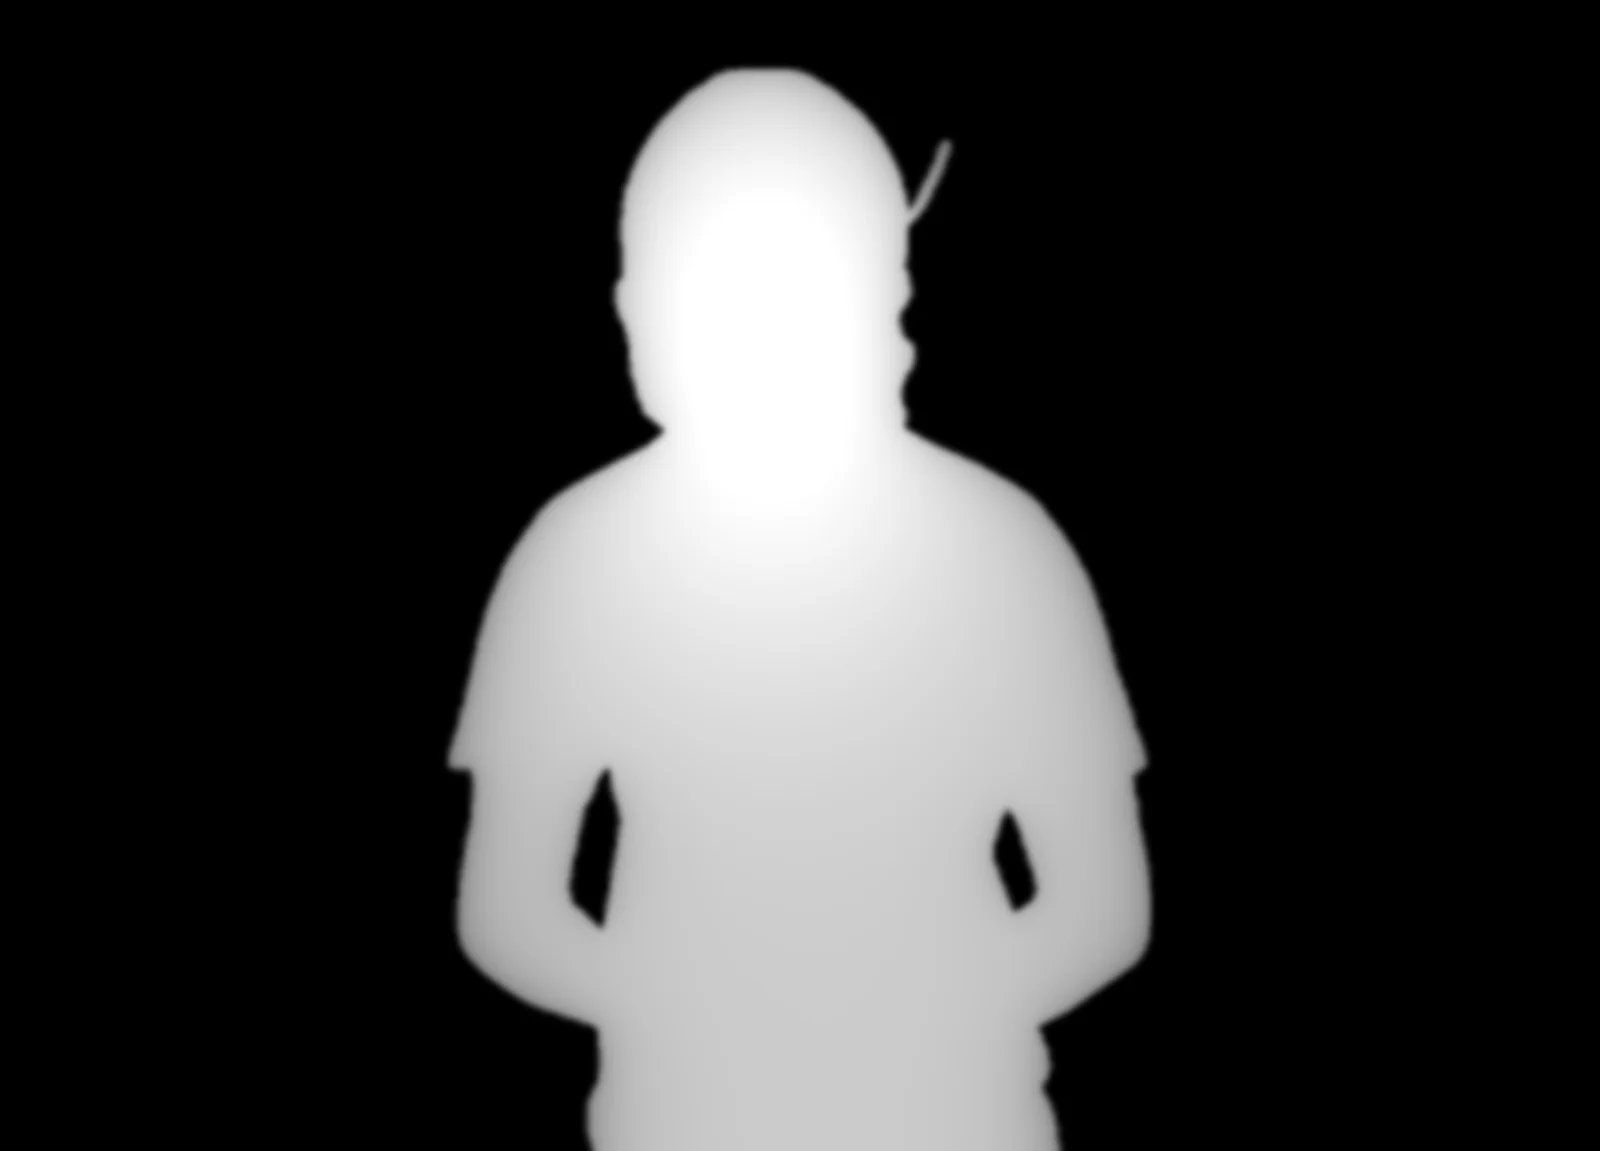
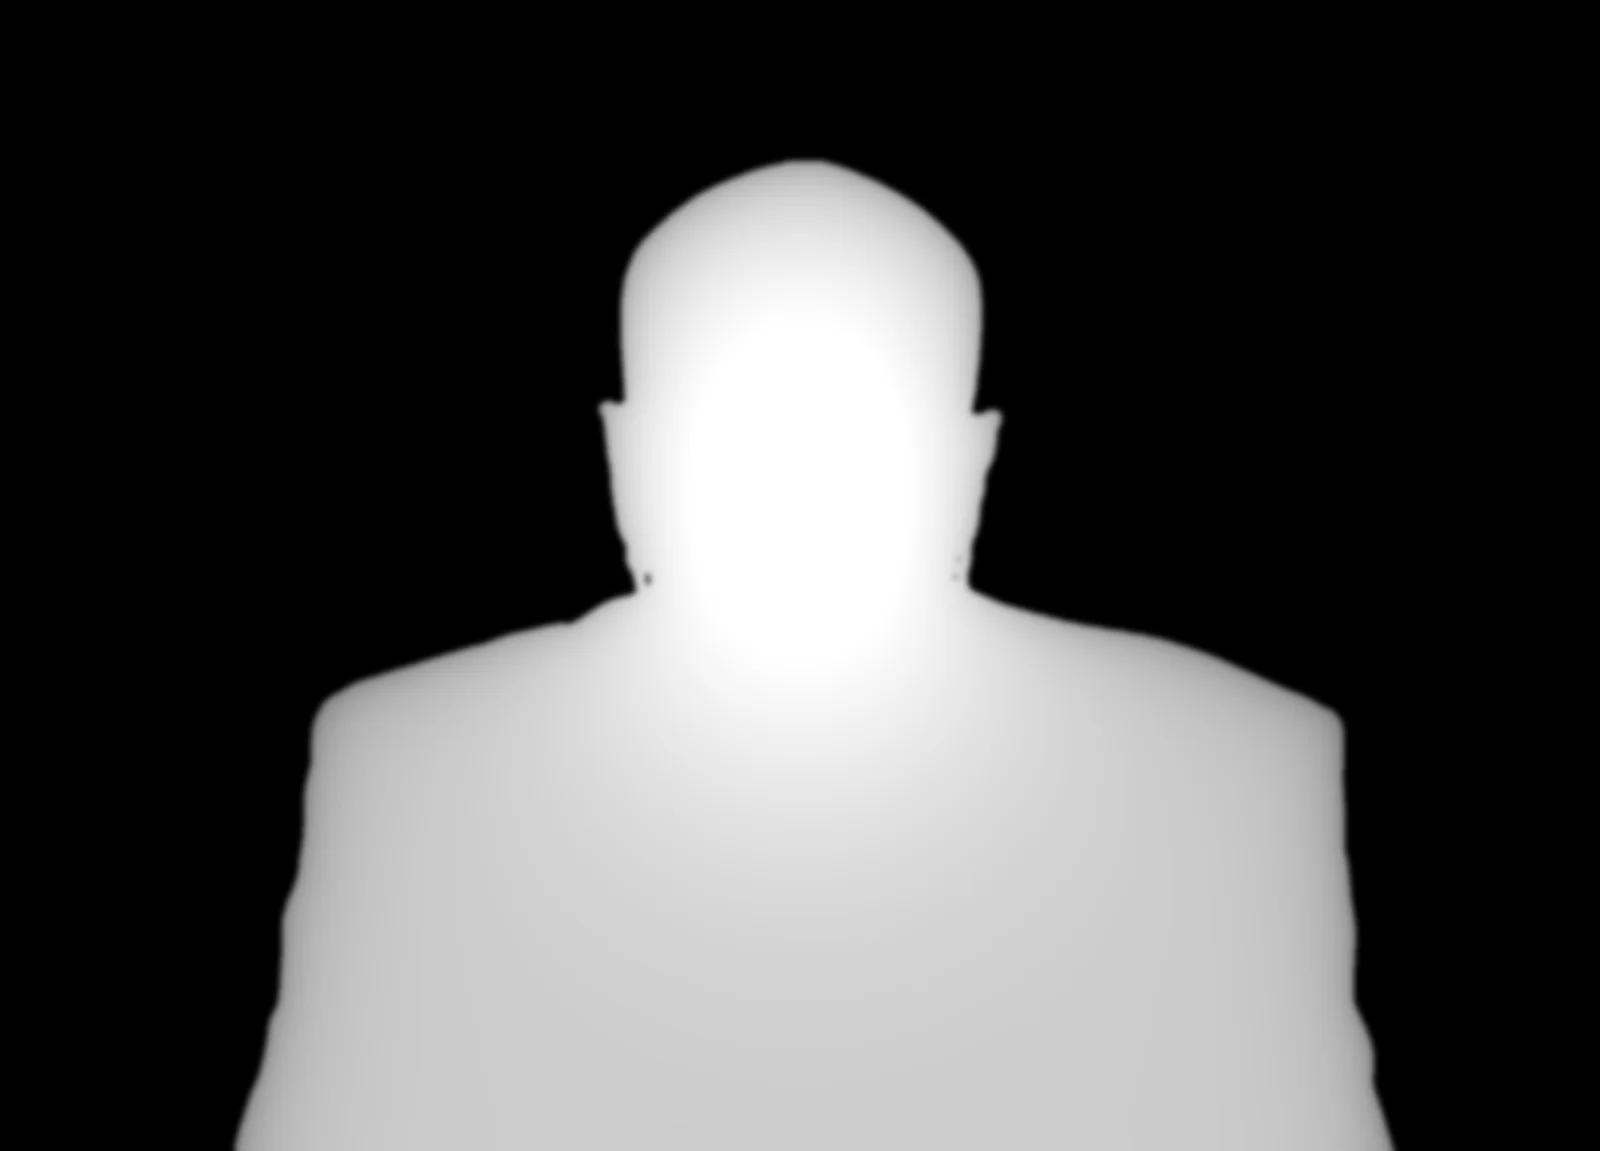
Home: real hero portrait and the two missing partner slides
- Hero portrait from Pexels 9573696 (front-facing, round sunglasses with
  chains) via gen-hero.py, which now supports BiRefNet cut-outs, centring on
  the face axis and a fill share; lens centre updated.
- Partnerships now has six slides like the reference (VOLTA eyewear profile,
  Halo Audio headphones; Pexels 34198837 with the chest patch painted out,
  3394666 with the backdrop inside the band removed). Page height matches the
  reference exactly at 1440x900 (17158px).
- Gold cleat gets a metallic grade; FORGE boxes scaled down.

Changed region(s): [[0.125, 0.0304, 0.875, 1.0], [0.4688, 0.5169, 0.5938, 0.6386], [0.5938, 0.6994, 0.6562, 0.821]]

diff --git a/apps/web/src/content/home.ts b/apps/web/src/content/home.ts
@@ -23,7 +23,7 @@ export const hero = {
     width: 1600,
     height: 1151,
     /** Lens centre in image UV (x, y from the top): the reflected video is centred here. */
-    lensCenter: [0.4778, 0.2876] as [number, number],
+    lensCenter: [0.4999, 0.4165] as [number, number],
   },
   /** Footage reflected in the lenses (and shown full-screen at the start of the intro). */
   video: { desktop: m('hero.mp4'), phone: m('hero-phone.mp4'), poster: m('hero-poster.webp') },
@@ -80,16 +80,28 @@ export const partnerships: { heading: string; cta: { label: string; href: string
       },
     },
     {
-      name: 'FORGE',
-      description:
-        'Fuel partner. A signature FORGE bar with Nico on the box, a training-table recipe series and a run of limited “18” packs every season opener.',
-      art: { kind: 'cutout', src: m('home/partner-forge.webp'), alt: 'Three FORGE protein-bar boxes featuring Nico Valtier', scale: 0.86, y: 'calc(-5 * var(--ht-u))' },
-    },
-    {
       name: 'Meridian Bank',
       description:
         'Hometown partner since 2021. Financial-literacy clinics across Northmark and the Meridian 18 scholarship for first-generation students.',
       art: { kind: 'cutout', src: m('influence-player.webp'), alt: 'Nico Valtier breaking away with the ball' },
+    },
+    {
+      name: 'FORGE',
+      description:
+        'Fuel partner. A signature FORGE bar with Nico on the box, a training-table recipe series and a run of limited “18” packs every season opener.',
+      art: { kind: 'cutout', src: m('home/partner-forge.webp'), alt: 'Three FORGE protein-bar boxes featuring Nico Valtier', scale: 0.66, y: 'calc(-12 * var(--ht-u))' },
+    },
+    {
+      name: 'VOLTA',
+      description:
+        'Eyewear partner. Lifestyle and performance frames, a co-designed Valtier 18 edition and sideline shades built for late-afternoon kickoffs.',
+      art: { kind: 'cutout', src: m('home/partner-volta.webp'), alt: 'Nico Valtier in VOLTA sunglasses, looking up' },
+    },
+    {
+      name: 'Halo Audio',
+      description:
+        'Game-day arrivals with Halo on. Nico’s pre-game playlists, studio sessions and a signature colourway in the Halo Studio line.',
+      art: { kind: 'cutout', src: m('home/partner-halo.webp'), alt: 'Halo Studio headphones in white', scale: 0.62, y: 'calc(-14 * var(--ht-u))' },
     },
   ],
 };

diff --git a/apps/web/scripts/gen-partner-art.py b/apps/web/scripts/gen-partner-art.py
@@ -1,6 +1,11 @@
 """Partnership visuals for the Home page.
 
-  python apps/web/scripts/gen-partner-art.py
+  python apps/web/scripts/gen-partner-art.py [<pexels-dir>]
+
+With <pexels-dir> (holding photos/<id>.jpg, see MEDIA.md) it also builds
+home/partner-halo.webp (white headphones, Pexels 3394666) and
+home/partner-volta.webp (profile in sunglasses, Pexels 34198837; chest patch
+painted out) as rembg (BiRefNet) cut-outs.
 
 home/partner-cleat.webp (+ -depth): the gold Northline cleat (cut-out from
   media/cleats/cleat-gold.webp) on a transparent 16:9 canvas, inside the same
@@ -50,6 +55,16 @@ def cleat():
     s = min(bw / src.size[0], bh / src.size[1])
     src = src.resize((int(src.size[0] * s), int(src.size[1] * s)), Image.LANCZOS)
     src = src.filter(ImageFilter.UnsharpMask(1.2, 60, 2))
+    # Metallic grade: luminance through a gold ramp with a contrast S-curve.
+    arr = np.asarray(src).astype(np.float32) / 255
+    lum = arr[..., :3] @ np.array([0.3, 0.59, 0.11], np.float32)
+    lo, hi = np.percentile(lum[arr[..., 3] > 0.5], [3, 99])
+    k = np.clip((lum - lo) / max(1e-3, hi - lo), 0, 1)
+    k = k * k * (3 - 2 * k)
+    stops = np.array([[0.16, 0.08, 0.01], [0.55, 0.33, 0.05], [0.86, 0.64, 0.2], [1.0, 0.88, 0.52], [1.0, 0.98, 0.86]], np.float32)
+    pos = np.linspace(0, 1, len(stops))
+    rgb = np.stack([np.interp(k, pos, stops[:, c]) for c in range(3)], -1)
+    src = Image.fromarray((np.dstack([rgb, arr[..., 3]]) * 255).clip(0, 255).astype(np.uint8), "RGBA")
     canvas = Image.new("RGBA", (W, H), (0, 0, 0, 0))
     canvas.alpha_composite(src, (int(W * l + (bw - src.size[0]) / 2), int(H * t + (bh - src.size[1]) / 2)))
     save(canvas, "partner-cleat.webp", 86)
@@ -134,6 +149,51 @@ def forge():
     save(canvas.crop(bbox), "partner-forge.webp", 84)
 
 
+def rembg_cut(img, hole_seed=None):
+    from rembg import remove, new_session
+    out = remove(img.convert("RGB"), session=new_session("birefnet-general"), post_process_mask=True)
+    a = np.asarray(out.getchannel("A")).astype(np.float32)
+    a[a < 10] = 0
+    if hole_seed:
+        # Backdrop enclosed by the object (e.g. inside a headband): flood the
+        # near-white region from the seed on the source photo and clear it.
+        rgb = np.asarray(img.convert("RGB")).astype(np.int16)
+        white = (rgb.min(axis=2) > 249) & (rgb.max(axis=2) - rgb.min(axis=2) < 4)
+        m = Image.fromarray((white * 255).astype(np.uint8)).copy()  # own buffer: floodfill writes in place
+        ImageDraw.floodfill(m, hole_seed, 128)
+        hole = Image.fromarray(((np.asarray(m) == 128) * 255).astype(np.uint8)).filter(ImageFilter.MinFilter(3)).filter(ImageFilter.GaussianBlur(1))
+        a *= 1 - np.asarray(hole).astype(np.float32) / 255
+    out.putalpha(Image.fromarray(a.astype(np.uint8)))
+    return out.crop(out.getbbox())
+
+
+def halo(src_dir):
+    im = Image.open(os.path.join(src_dir, "photos", "3394666.jpg")).convert("RGB")
+    cut = rembg_cut(im, hole_seed=(im.size[0] // 2, int(im.size[1] * 0.45)))
+    cut.thumbnail((1400, 1400), Image.LANCZOS)
+    save(cut, "partner-halo.webp", 86)
+
+
+def volta(src_dir):
+    im = Image.open(os.path.join(src_dir, "photos", "34198837.jpg")).convert("RGB")
+    W, H = im.size
+    # Paint out the printed chest patch with shirt fabric from just left of it.
+    box = (int(0.772 * W), int(0.752 * H), W, int(0.897 * H))
+    w, h = box[2] - box[0], box[3] - box[1]
+    patch = im.crop((box[0] - w - 20, box[1], box[0] - 20, box[3]))
+    m = Image.new("L", (w, h), 0)
+    ImageDraw.Draw(m).rectangle([18, 18, w - 18, h - 18], fill=255)
+    m = m.filter(ImageFilter.GaussianBlur(14))
+    im.paste(patch, box[:2], m)
+    cut = rembg_cut(im)
+    cut.thumbnail((1500, 1500), Image.LANCZOS)
+    save(cut, "partner-volta.webp", 86)
+
+
 if __name__ == "__main__":
+    import sys
     cleat()
     forge()
+    if len(sys.argv) > 1:
+        halo(sys.argv[1])
+        volta(sys.argv[1])

diff --git a/apps/web/scripts/gen-hero.py b/apps/web/scripts/gen-hero.py
@@ -5,7 +5,12 @@
 <source-image>  photo (or RGBA cut-out) of the athlete facing the camera.
 <lens-spec>     lens shapes in source-image UV, "cx,cy,rx,ry[,rot];..." (ellipses;
                 one per lens or one for a visor).
---cutout        remove the background with rembg (isnet-general-use) first.
+--cutout        remove the background with rembg first (BiRefNet; isnet with --isnet).
+--center=u      centre the canvas on this source-image u (the face axis).
+--lensy=0.38    place the lens line at this share of the canvas height (else bottom-anchored).
+--fade=0.25     fade out the lowest share of the subject (for head-and-shoulder crops).
+--fill=0.95     subject height as a share of the canvas; the subject's lower edge
+                (a photo crop) is anchored just below the canvas bottom.
 
 Writes public/media/hero/:
   portrait.webp        1600x1151 RGBA, subject centred, feet off the bottom edge
@@ -21,20 +26,29 @@ OUT = os.path.join(os.path.dirname(__file__), "..", "public", "media", "hero")
 W, H = 1600, 1151
 
 
-def cutout(img):
+def cutout(img, model="birefnet-general"):
     from rembg import remove, new_session
-    return remove(img.convert("RGB"), session=new_session("isnet-general-use"), post_process_mask=True)
+    return remove(img.convert("RGB"), session=new_session(model), post_process_mask=True)
 
 
-def place(src):
-    """Fit the subject so it spans ~92% of the canvas height, centred, cropped at the bottom."""
+def place(src, fill=0.95, center=None, lens_y=None, fade=0.0):
+    """Fit the subject to `fill` of the canvas height, centred, its lower edge just past the bottom."""
     bbox = src.getchannel("A").point(lambda v: 255 if v > 24 else 0).getbbox() or (0, 0, *src.size)
     sub = src.crop(bbox)
-    scale = (H * 1.02) / sub.size[1]
+    scale = (H * fill) / sub.size[1]
     sub = sub.resize((max(1, round(sub.size[0] * scale)), max(1, round(sub.size[1] * scale))), Image.LANCZOS)
     canvas = Image.new("RGBA", (W, H), (0, 0, 0, 0))
-    x = (W - sub.size[0]) // 2
-    y = round(H * 0.06)
+    # Centre on `center` (source-image u of the face axis) when given, else on the silhouette.
+    x = (W - sub.size[0]) // 2 if center is None else round(W / 2 - (center * src.size[0] - bbox[0]) * scale)
+    y = H - sub.size[1] + round(H * 0.02)
+    if lens_y is not None:
+        # Put the lens line at lens_y of the canvas; the cut-off lower edge then fades out.
+        y = round(H * lens_y[0] - (lens_y[1] * src.size[1] - bbox[1]) * scale)
+    if fade > 0:
+        a = np.asarray(sub.getchannel("A")).astype(np.float32)
+        h = a.shape[0]
+        ramp = np.clip((h - np.arange(h)) / (fade * h), 0, 1) ** 1.6
+        sub.putalpha(Image.fromarray((a * ramp[:, None]).astype(np.uint8)))
     canvas.alpha_composite(sub, (x, y))
     return canvas, (bbox, scale, x, y)
 
@@ -87,8 +101,13 @@ def main():
     specs = [tuple(float(x) for x in s.split(",")) for s in spec.split(";") if s.strip()]
     src = ImageOps.exif_transpose(Image.open(src_path)).convert("RGBA")
     if "--cutout" in sys.argv:
-        src = cutout(src)
-    canvas, geo = place(src)
+        src = cutout(src, "isnet-general-use" if "--isnet" in sys.argv else "birefnet-general")
+    fill = next((float(a.split("=")[1]) for a in sys.argv if a.startswith("--fill=")), 0.95)
+    center = next((float(a.split("=")[1]) for a in sys.argv if a.startswith("--center=")), None)
+    ly = next((float(a.split("=")[1]) for a in sys.argv if a.startswith("--lensy=")), None)
+    fade = next((float(a.split("=")[1]) for a in sys.argv if a.startswith("--fade=")), 0.0)
+    lens_v = sum(sp[1] for sp in specs) / len(specs)
+    canvas, geo = place(src, fill, center, (ly, lens_v) if ly is not None else None, fade)
     os.makedirs(OUT, exist_ok=True)
     canvas.save(os.path.join(OUT, "portrait.webp"), "WEBP", quality=82, method=6)
     a = np.asarray(canvas.getchannel("A"))

diff --git a/apps/web/MEDIA.md b/apps/web/MEDIA.md
@@ -36,6 +36,8 @@ and `<dir>/video/<id>.mp4` are the originals below (cut-outs use rembg 2.0.50, m
 | football.webp | 26707860 (cut-out, tee removed) |
 | gloves.webp | 13141533 (cut-out: helmet in gloved hand — no receiver-glove shots on Pexels) |
 | cleats c01–c10, cleat-gold | 32573999, 32574015, 32574010 (cut-outs + hue-rotated / gilded colourways) |
+| hero/portrait (Home) | 9573696 |
+| home/partner-halo, home/partner-volta (Home) | 3394666, 34198837 |
 
 Photo URLs: `https://www.pexels.com/photo/<id>/` · video: `https://www.pexels.com/video/<id>/`
 
@@ -44,7 +46,8 @@ Photo URLs: `https://www.pexels.com/photo/<id>/` · video: `https://www.pexels.c
 | File | Made by | Notes |
 |---|---|---|
 | cards/card-01–05.webp | `scripts/gen-cards.py` | trading cards: rembg cut-out of existing photos (career, r10, reel-02, r16, reel-03) on a violet field, gold dust, bevelled gold frame |
-| hero/portrait.webp, portrait-depth.webp, portrait-lens.webp | `scripts/gen-hero.py <photo> "<lens ellipses>" [--cutout]` | WebGL depth portrait. **Placeholder**: built from records/r16 until a front-facing portrait with sport sunglasses is sourced; rerun the script with the new photo and paste the printed `lensCenter` into `content/home.ts` |
+| hero/portrait.webp, portrait-depth.webp, portrait-lens.webp | `scripts/gen-hero.py` | WebGL depth portrait from Pexels 9573696 (top 62% of the frame, BiRefNet cut-out): `python apps/web/scripts/gen-hero.py hero-src.jpg "0.4428,0.4467,0.0438,0.045;0.5727,0.4512,0.0466,0.0442" --cutout --fill=0.88 --center=0.5078`, then paste the printed `lensCenter` into `content/home.ts` |
+| home/partner-halo.webp, home/partner-volta.webp | `scripts/gen-partner-art.py <pexels-dir>` | BiRefNet cut-outs of Pexels 3394666 (headphones, backdrop inside the band flooded out) and 34198837 (printed chest patch painted out) |
 | home/partner-cleat.webp (+ -depth) | `scripts/gen-partner-art.py` | cleat-gold cut-out on a 16:9 canvas for the depth slide |
 | home/partner-forge.webp | `scripts/gen-partner-art.py` | procedural FORGE packaging (photos r10, career, reel-02) |
 | ../textures/light-wash.webp, light-spot.webp, paper-grain.webp | `scripts/gen-lights.py` | soft-light window washes, instant-photo paper grain |
